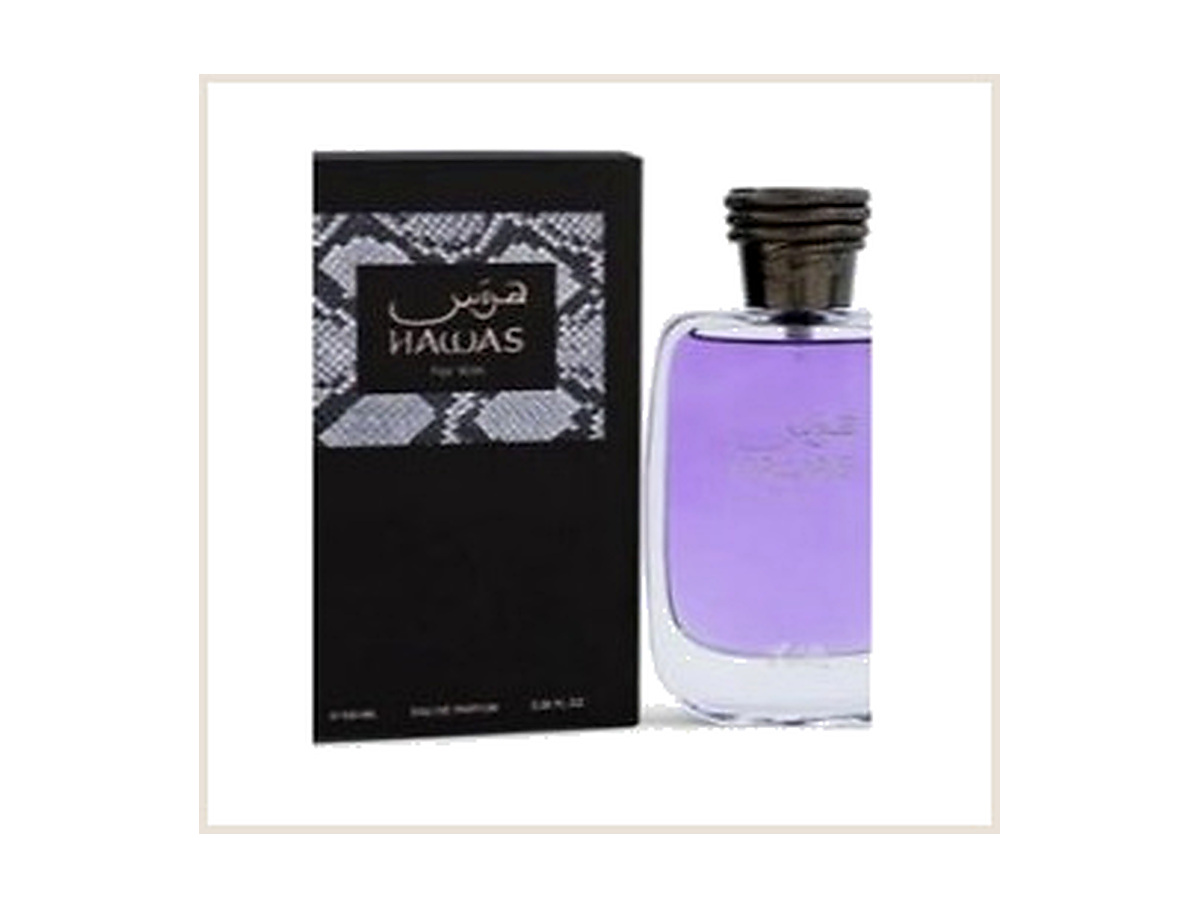
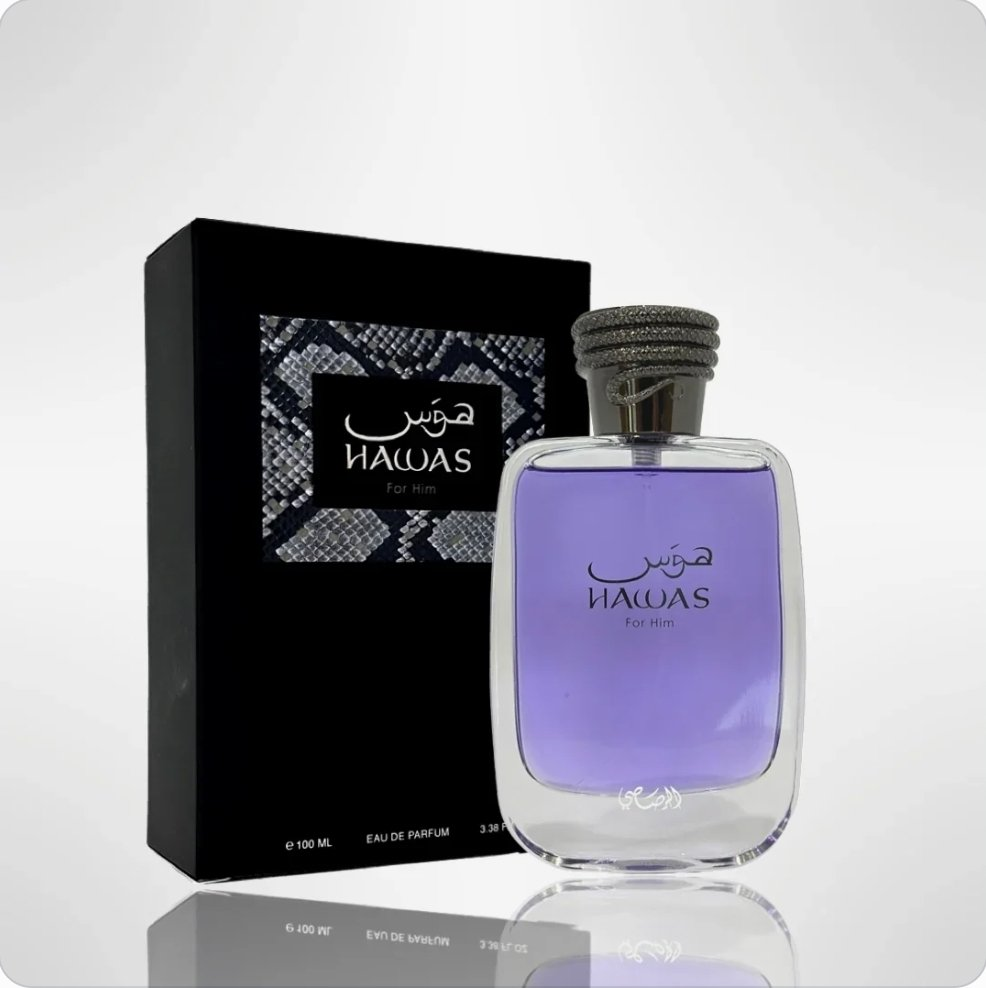
Replace Rasasi Hawas (original) photos with Boss's new shots

diff --git a/index.html b/index.html
@@ -691,7 +691,7 @@
       var productsCatalog = [
         { name:'Lattafa Asad Elixir Cologne for Men', niche:'Lattafa · Men · 3.4 oz EDP', direction:'Dark spice, lavender and amber woods', description:'Bold and concentrated, with aromatic spice, smooth lavender and a warm amber-wood finish. Widely considered a Dior Sauvage Elixir-style alternative for commanding evening wear.', category:'amber', images:[{src:'assets/product-lattafa-asad-elixir.jpg', alt:'Lattafa Asad Elixir bottle and box — clean packshot'}], price:39, decantPrice:10, originalPrice:45, featured:1, paymentLink:'https://buy.stripe.com/3cI9AV2Qx37K7G2e8Xf7i10' },
         { name:'Dumont Nitro Intense Cologne for Men', niche:'Dumont · Men · 3.4 oz EDP', direction:'Fruity freshness over smoky woods', description:'A vivid opening of fresh fruit and citrus settles into smoky woods and musk. Energetic up top, darker and more grounded through the drydown.', category:'woody', images:[{src:'assets/product-dumont-nitro-intense.jpg', alt:'Dumont Nitro Intense bottle and box — clean packshot'},{src:'assets/gallery-dumont-nitro-intense-1.jpg', alt:'Dumont Nitro Intense Cologne for Men — customer photo 1'},{src:'assets/gallery-dumont-nitro-intense-2.jpg', alt:'Dumont Nitro Intense Cologne for Men — customer photo 2'}], price:37, decantPrice:9, originalPrice:44, featured:2, paymentLink:'https://buy.stripe.com/dRmeVfdvb4bO1hE6Gvf7i11' },
-        { name:'Rasasi Hawas Cologne for Men', niche:'Rasasi · Men · 3.38 oz EDP', direction:'Aquatic citrus with sweet amber', description:'Bright citrus and crisp aquatic freshness meet a lightly sweet amber-musk base. Clean, vibrant and easy to wear from daytime into the evening.', category:'fresh', images:[{src:'assets/product-rasasi-hawas.jpg', alt:'Rasasi Hawas bottle and box — clean packshot'}], price:45, decantPrice:11, originalPrice:65, featured:3 , paymentLink:'https://buy.stripe.com/7sY28t0IpaAc8K66Gvf7i12'},
+        { name:'Rasasi Hawas Cologne for Men', niche:'Rasasi · Men · 3.38 oz EDP', direction:'Aquatic citrus with sweet amber', description:'Bright citrus and crisp aquatic freshness meet a lightly sweet amber-musk base. Clean, vibrant and easy to wear from daytime into the evening.', category:'fresh', images:[{src:'assets/product-rasasi-hawas.jpg', alt:'Rasasi Hawas purple bottle and box on a clean white background'},{src:'assets/product-rasasi-hawas-2.jpg', alt:'Rasasi Hawas purple bottle on a clean white background'}], price:45, decantPrice:11, originalPrice:65, featured:3 , paymentLink:'https://buy.stripe.com/7sY28t0IpaAc8K66Gvf7i12'},
         { name:'Jimmy Choo Illicit Flower Perfume for Women', niche:'Jimmy Choo · Women · 3.3 oz EDT', direction:'Sparkling fruit, rose and soft musk', description:'A graceful fruity-floral blend with a bright opening, delicate rose and a smooth musky finish. Polished, feminine and effortless for everyday wear.', category:'fresh', images:[{src:'assets/product-jimmy-choo-illicit-flower.jpg', alt:'Jimmy Choo Illicit Flower bottle and box — clean packshot'}], price:59, decantPrice:15, originalPrice:79, featured:4 , paymentLink:'https://buy.stripe.com/dRmdRbfDjfUw4tQ9SHf7i15'},
         { name:'Afnan 9PM Elixir Perfume for Unisex', niche:'Afnan · Unisex · 3.4 oz Parfum Intense', direction:'Aromatic spice and warm vanilla woods', description:'Deep spice and aromatic freshness lead into a rich, smooth base of vanilla-toned woods. A powerful unisex choice with a dressed-up evening feel.', category:'amber', images:[{src:'assets/product-afnan-9pm-elixir.jpg', alt:'Afnan 9PM Elixir bottle and box — clean packshot'},{src:'assets/gallery-afnan-9pm-elixir-1.jpg', alt:'Afnan 9PM Elixir Perfume for Unisex — customer photo 1'}], price:44, decantPrice:11, originalPrice:55, featured:5, paymentLink:'https://buy.stripe.com/00w7sN1Mt5fSe4q0i7f7i16' },
         { name:'Bentley Intense Cologne for Men', niche:'Bentley · Men · 3.4 oz EDP', direction:'Rum, leather and smoky woods', description:'Warm rum and spice flow into leather, incense and dark woods. Rich, confident and best suited to cool weather or an evening setting.', category:'woody', images:[{src:'assets/product-bentley-intense.jpg', alt:'Bentley Intense bottle and box on a clean white background'},{src:'assets/product-bentley-intense-2.jpg', alt:'Bentley Intense bottle on a clean white background'}], price:40, decantPrice:10, originalPrice:52, featured:6, paymentLink:'https://buy.stripe.com/bJeeVf3UBaAcbWi5Crf7i19' },
